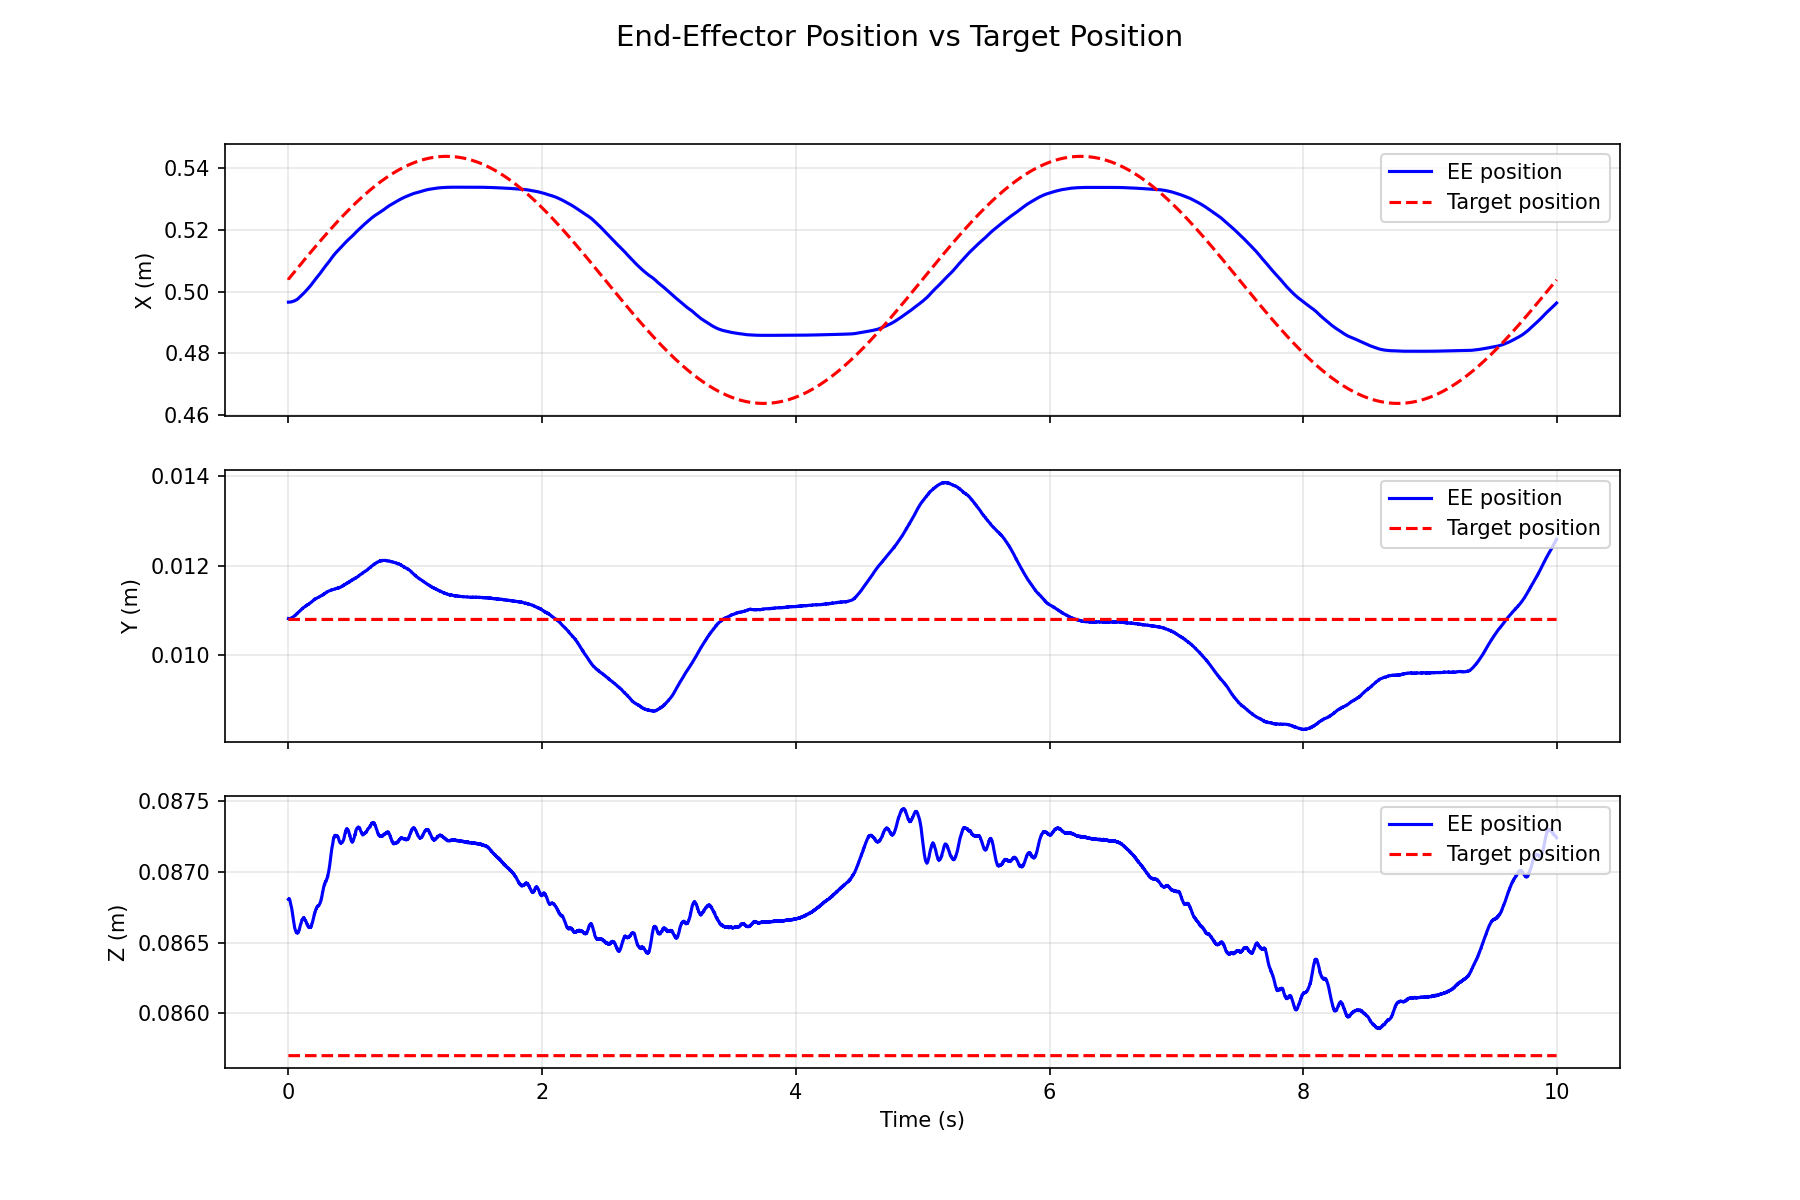
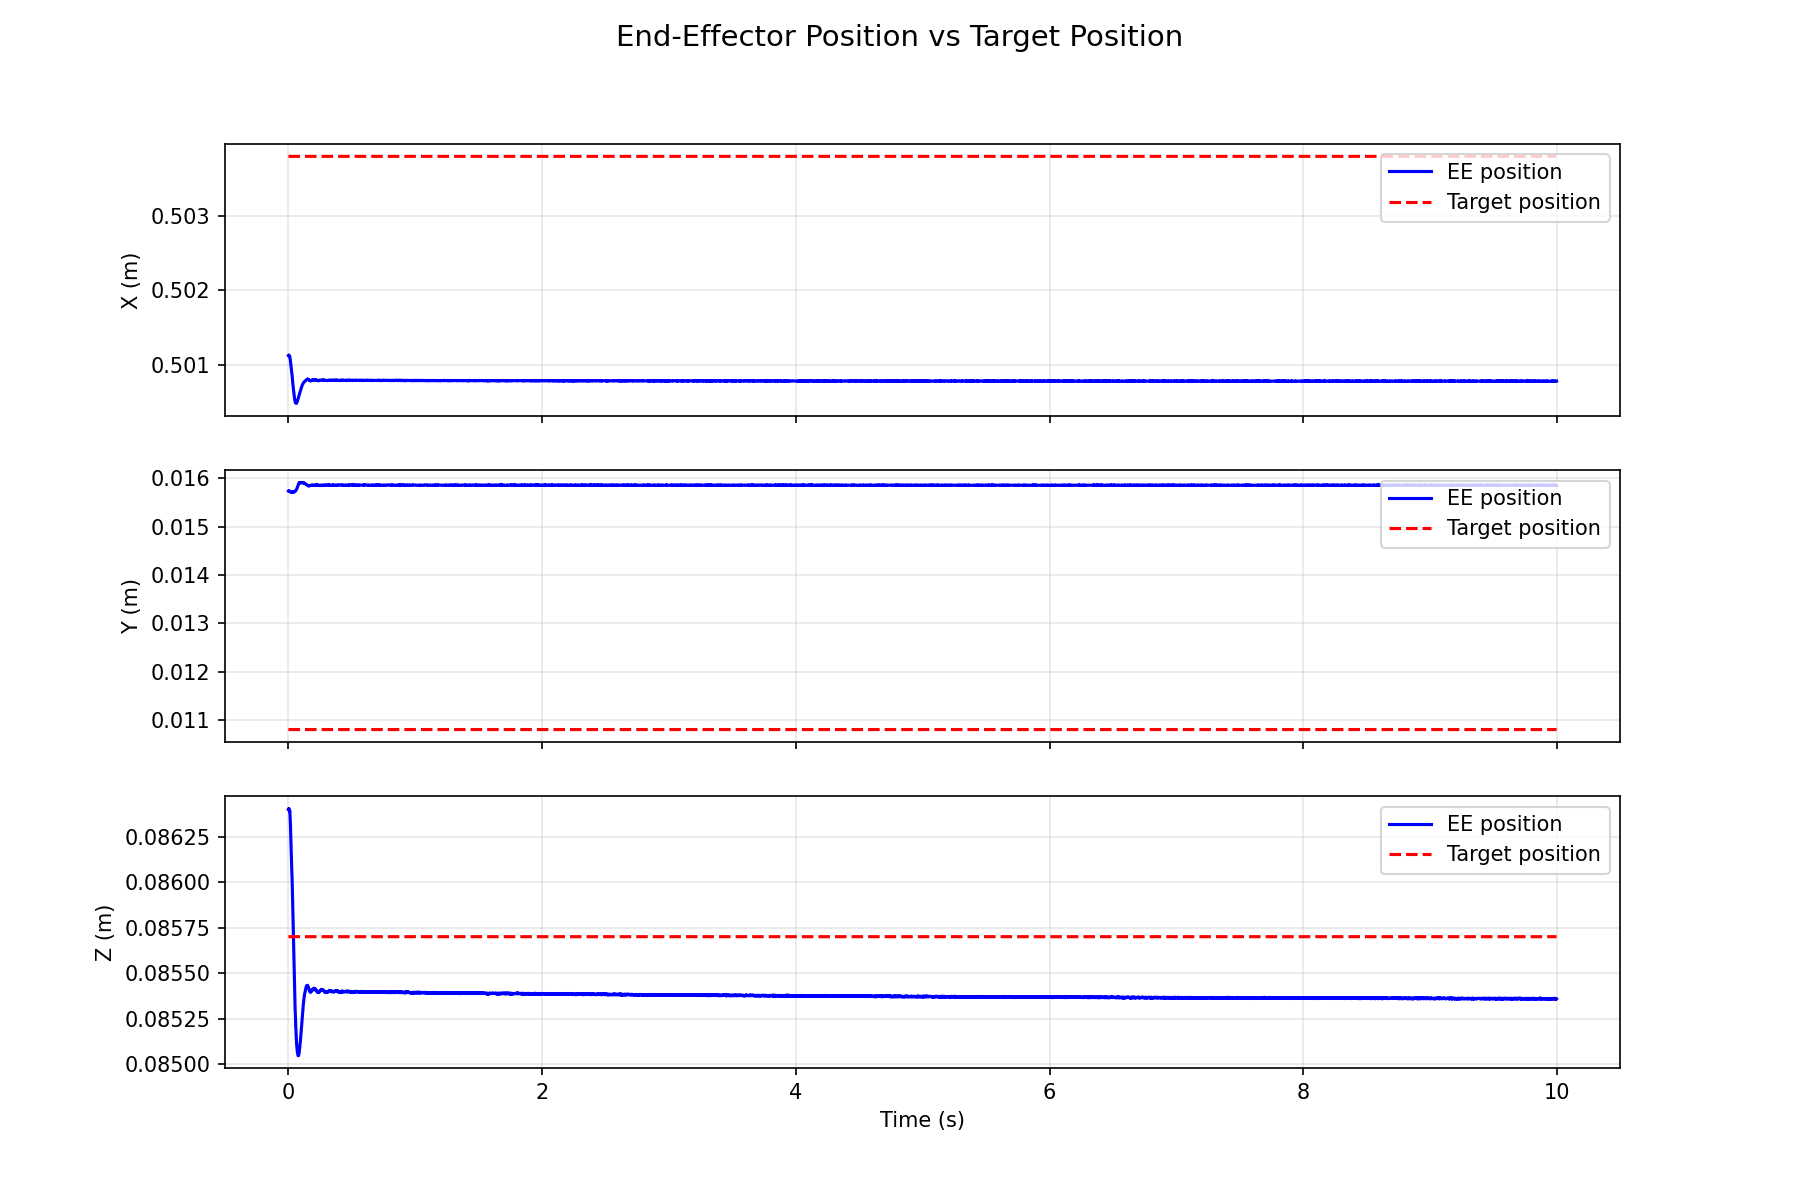
lab

diff --git a/cosine_new_swb.py b/cosine_new_swb.py
@@ -1,0 +1,147 @@
+#!/usr/bin/env python3
+# -*- coding: utf-8 -*-
+
+import argparse
+from pathlib import Path
+
+import numpy as np
+from pylibfranka import ControllerMode, JointPositions, Robot
+
+
+def main():
+    parser = argparse.ArgumentParser()
+    parser.add_argument("--ip", type=str, default="10.90.90.10", help="Robot IP address")
+    parser.add_argument("--duration", type=float, default=10.0, help="Total motion duration [s]")
+    parser.add_argument("--plot", action="store_true", help="Save plots after motion")
+    parser.add_argument("--outdir", type=str, default="cosine_new", help="Output directory for plots/logs")
+    args = parser.parse_args()
+
+    # output dir (only create when needed, but it's fine to create always)
+    plot_dir = Path(args.outdir)
+    plot_dir.mkdir(parents=True, exist_ok=True)
+
+    robot = Robot(args.ip)
+
+    # logs
+    t_log = []
+    q_cmd_log = []
+    q_meas_log = []
+
+    try:
+        # Set collision behavior
+        lower_torque_thresholds = [20.0, 20.0, 18.0, 18.0, 16.0, 14.0, 12.0]
+        upper_torque_thresholds = [20.0, 20.0, 18.0, 18.0, 16.0, 14.0, 12.0]
+        lower_force_thresholds = [20.0, 20.0, 20.0, 25.0, 25.0, 25.0]
+        upper_force_thresholds = [20.0, 20.0, 20.0, 25.0, 25.0, 25.0]
+
+        robot.set_collision_behavior(
+            lower_torque_thresholds,
+            upper_torque_thresholds,
+            lower_force_thresholds,
+            upper_force_thresholds,
+        )
+
+        print("WARNING: This example will move the robot!")
+        print("Please make sure to have the user stop button at hand!")
+        input("Press Enter to continue...")
+
+        active_control = robot.start_joint_position_control(ControllerMode.JointImpedance)
+
+        initial_position = None
+        time_elapsed = 0.0
+        motion_finished = False
+
+        while not motion_finished:
+            robot_state, duration = active_control.readOnce()
+            dt = duration.to_sec()
+            time_elapsed += dt
+
+            # capture initial position once
+            if initial_position is None:
+                # q_d preferred if available, else q
+                q0 = robot_state.q_d if hasattr(robot_state, "q_d") else robot_state.q
+                initial_position = np.array(q0, dtype=float)
+
+            q_meas = np.array(robot_state.q, dtype=float)
+
+            # delta angle (same formula idea as C++ example)
+            delta_angle = np.pi / 32.0 * (1.0 - np.cos(np.pi / 2.5 * time_elapsed))
+
+            # command (add same delta to all joints)
+            q_cmd = initial_position + delta_angle
+
+            # log
+            t_log.append(time_elapsed)
+            q_cmd_log.append(q_cmd.copy())
+            q_meas_log.append(q_meas.copy())
+
+            joint_positions = JointPositions(q_cmd.tolist())
+
+            if time_elapsed >= args.duration:
+                joint_positions.motion_finished = True
+                motion_finished = True
+                print("Finished motion, shutting down example")
+
+            active_control.writeOnce(joint_positions)
+
+        # stop robot after motion
+        robot.stop()
+
+    except Exception as e:
+        print(f"Error occurred: {e}")
+        try:
+            robot.stop()
+        except Exception:
+            pass
+        # even if error, still try to save plots/logs
+    finally:
+        # ---------- save logs + plots ----------
+        if len(t_log) > 5:
+            t_arr = np.asarray(t_log, dtype=float)
+            q_cmd_arr = np.vstack(q_cmd_log).astype(float)   # (N,7)
+            q_meas_arr = np.vstack(q_meas_log).astype(float) # (N,7)
+
+            # save raw data for later analysis
+            np.savez(plot_dir / "log.npz", t=t_arr, q_cmd=q_cmd_arr, q_meas=q_meas_arr)
+            print(f"Saved log to: {(plot_dir / 'log.npz').resolve()}")
+
+            if args.plot:
+                import matplotlib
+                matplotlib.use("Agg")  # headless save
+                import matplotlib.pyplot as plt
+
+                # per-joint plots
+                for j in range(7):
+                    plt.figure()
+                    plt.plot(t_arr, q_cmd_arr[:, j], label=f"q_cmd (joint {j+1})")
+                    plt.plot(t_arr, q_meas_arr[:, j], label=f"q_meas (joint {j+1})")
+                    plt.xlabel("time [s]")
+                    plt.ylabel("angle [rad]")
+                    plt.title(f"Joint {j+1} trajectory")
+                    plt.legend()
+                    plt.grid(True)
+                    plt.savefig(plot_dir / f"joint_{j+1}.png", dpi=150, bbox_inches="tight")
+                    plt.close()
+
+                # tracking error norm
+                err_norm = np.linalg.norm(q_cmd_arr - q_meas_arr, axis=1)
+                plt.figure()
+                plt.plot(t_arr, err_norm, label="||q_cmd - q_meas||")
+                plt.xlabel("time [s]")
+                plt.ylabel("error [rad]")
+                plt.title("Tracking error norm")
+                plt.legend()
+                plt.grid(True)
+                plt.savefig(plot_dir / "err_norm.png", dpi=150, bbox_inches="tight")
+                plt.close()
+
+                print(f"Saved plots to folder: {plot_dir.resolve()}")
+
+        else:
+            print("Not enough data collected to save plots/logs.")
+
+    return 0
+
+
+if __name__ == "__main__":
+    raise SystemExit(main())

diff --git a/src/hybrid_controller.py b/src/hybrid_controller.py
@@ -199,7 +199,7 @@ class HybridControllerConfig:
             damping_ratio = 1.0
             self.Kd_null = damping_ratio * 2 * np.sqrt(self.Kp_null)
         if self.F_desired_contact is None:
-            self.F_desired_contact = np.array([-8.0])
+            self.F_desired_contact = np.array([-15.0])
 
 
 class HybridController:
@@ -384,23 +384,43 @@ class HybridController:
         #     self.x_ddot_desired[:] = 0.0
         #     self.is_drawing = False
 
-        amplitude = 0.04  # 4cm amplitude → 8cm total range (±4cm)
-        frequency = 0.2
-
         if elapsed < self.common_config.circle_duration:
-            self.target_pos, self.x_dot_desired, self.x_ddot_desired = generate_sinusoidal_trajectory(
-                elapsed_time=elapsed,
-                start_pos=self.common_config.circle_center,
-                amplitude=amplitude,
-                frequency=frequency,
-                R_slope=self.R_slope,
-                size_z=0.0
-            )
+            self.target_pos = self.common_config.circle_center
+            self.x_dot_desired[:] = 0.0
+            self.x_ddot_desired[:] = 0.0
+
+            # self.target_pos, self.x_dot_desired, self.x_ddot_desired = \
+            #     generate_circle_trajectory(
+            #         elapsed,
+            #         self.common_config.circle_center,
+            #         self.common_config.circle_radius,
+            #         self.common_config.angular_speed,
+            #         self.R_slope,
+            #         self.common_config.size_z
+            #     )
         else:
             # Stop after duration
             self.x_dot_desired[:] = 0.0
             self.x_ddot_desired[:] = 0.0
             self.is_drawing = False
+
+        # amplitude = 0.04  # 4cm amplitude → 8cm total range (±4cm)
+        # frequency = 0.2
+
+        # if elapsed < self.common_config.circle_duration:
+        #     self.target_pos, self.x_dot_desired, self.x_ddot_desired = generate_sinusoidal_trajectory(
+        #         elapsed_time=elapsed,
+        #         start_pos=self.common_config.circle_center,
+        #         amplitude=amplitude,
+        #         frequency=frequency,
+        #         R_slope=self.R_slope,
+        #         size_z=0.0
+        #     )
+        # else:
+        #     # Stop after duration
+        #     self.x_dot_desired[:] = 0.0
+        #     self.x_ddot_desired[:] = 0.0
+        #     self.is_drawing = False
 
         # Get current state
         q = np.array(robot_state.q)

diff --git a/joint_position_swb.py b/joint_position_swb.py
@@ -35,12 +35,12 @@ def main() -> int:
         type=float,
         nargs=7,
         # default=[0.0, -0.785398163397, 0.0, -2.35619449019, 0.0, 1.57079632679, 0.785398163397],
-        # default=[0.0002, 0.1411, -0.0928, -2.0621, -0.0024, 2.2852, 0.7764],
+        default=[0.0002, 0.1411, -0.0928, -2.0621, -0.0024, 2.2852, 0.7764],
         # default=[0.0225, 0.7064, -0.0243, -2.3135, -0.0095, 3.0422, -0.2441], #circel center
         # default=[0.0222, 0.7526, -0.0251, -2.1784, -0.0089, 2.9499, -0.2435], #circel start point
         # default=[0.1543, 0.4641, -0.0974, -2.5512, -0.0034, 3.0328, 0.6699],
         # default=[0.1807, 0.6659, -0.1337, -2.1748, 0.1788, 2.8604, 0.6684], # scale circel start point
-        default=[0.1376, 0.5954, -0.0836, -2.3269, 0.1185, 2.9249, 0.7046], # scale circel center point
+        # default=[0.1376, 0.5954, -0.0836, -2.3269, 0.1185, 2.9249, 0.7046], # scale circel center point
         help="7 joint targets in rad (default: Franka start pose)",
     )
     parser.add_argument("--plot", action="store_true", help="Plot joint trajectories after motion")
